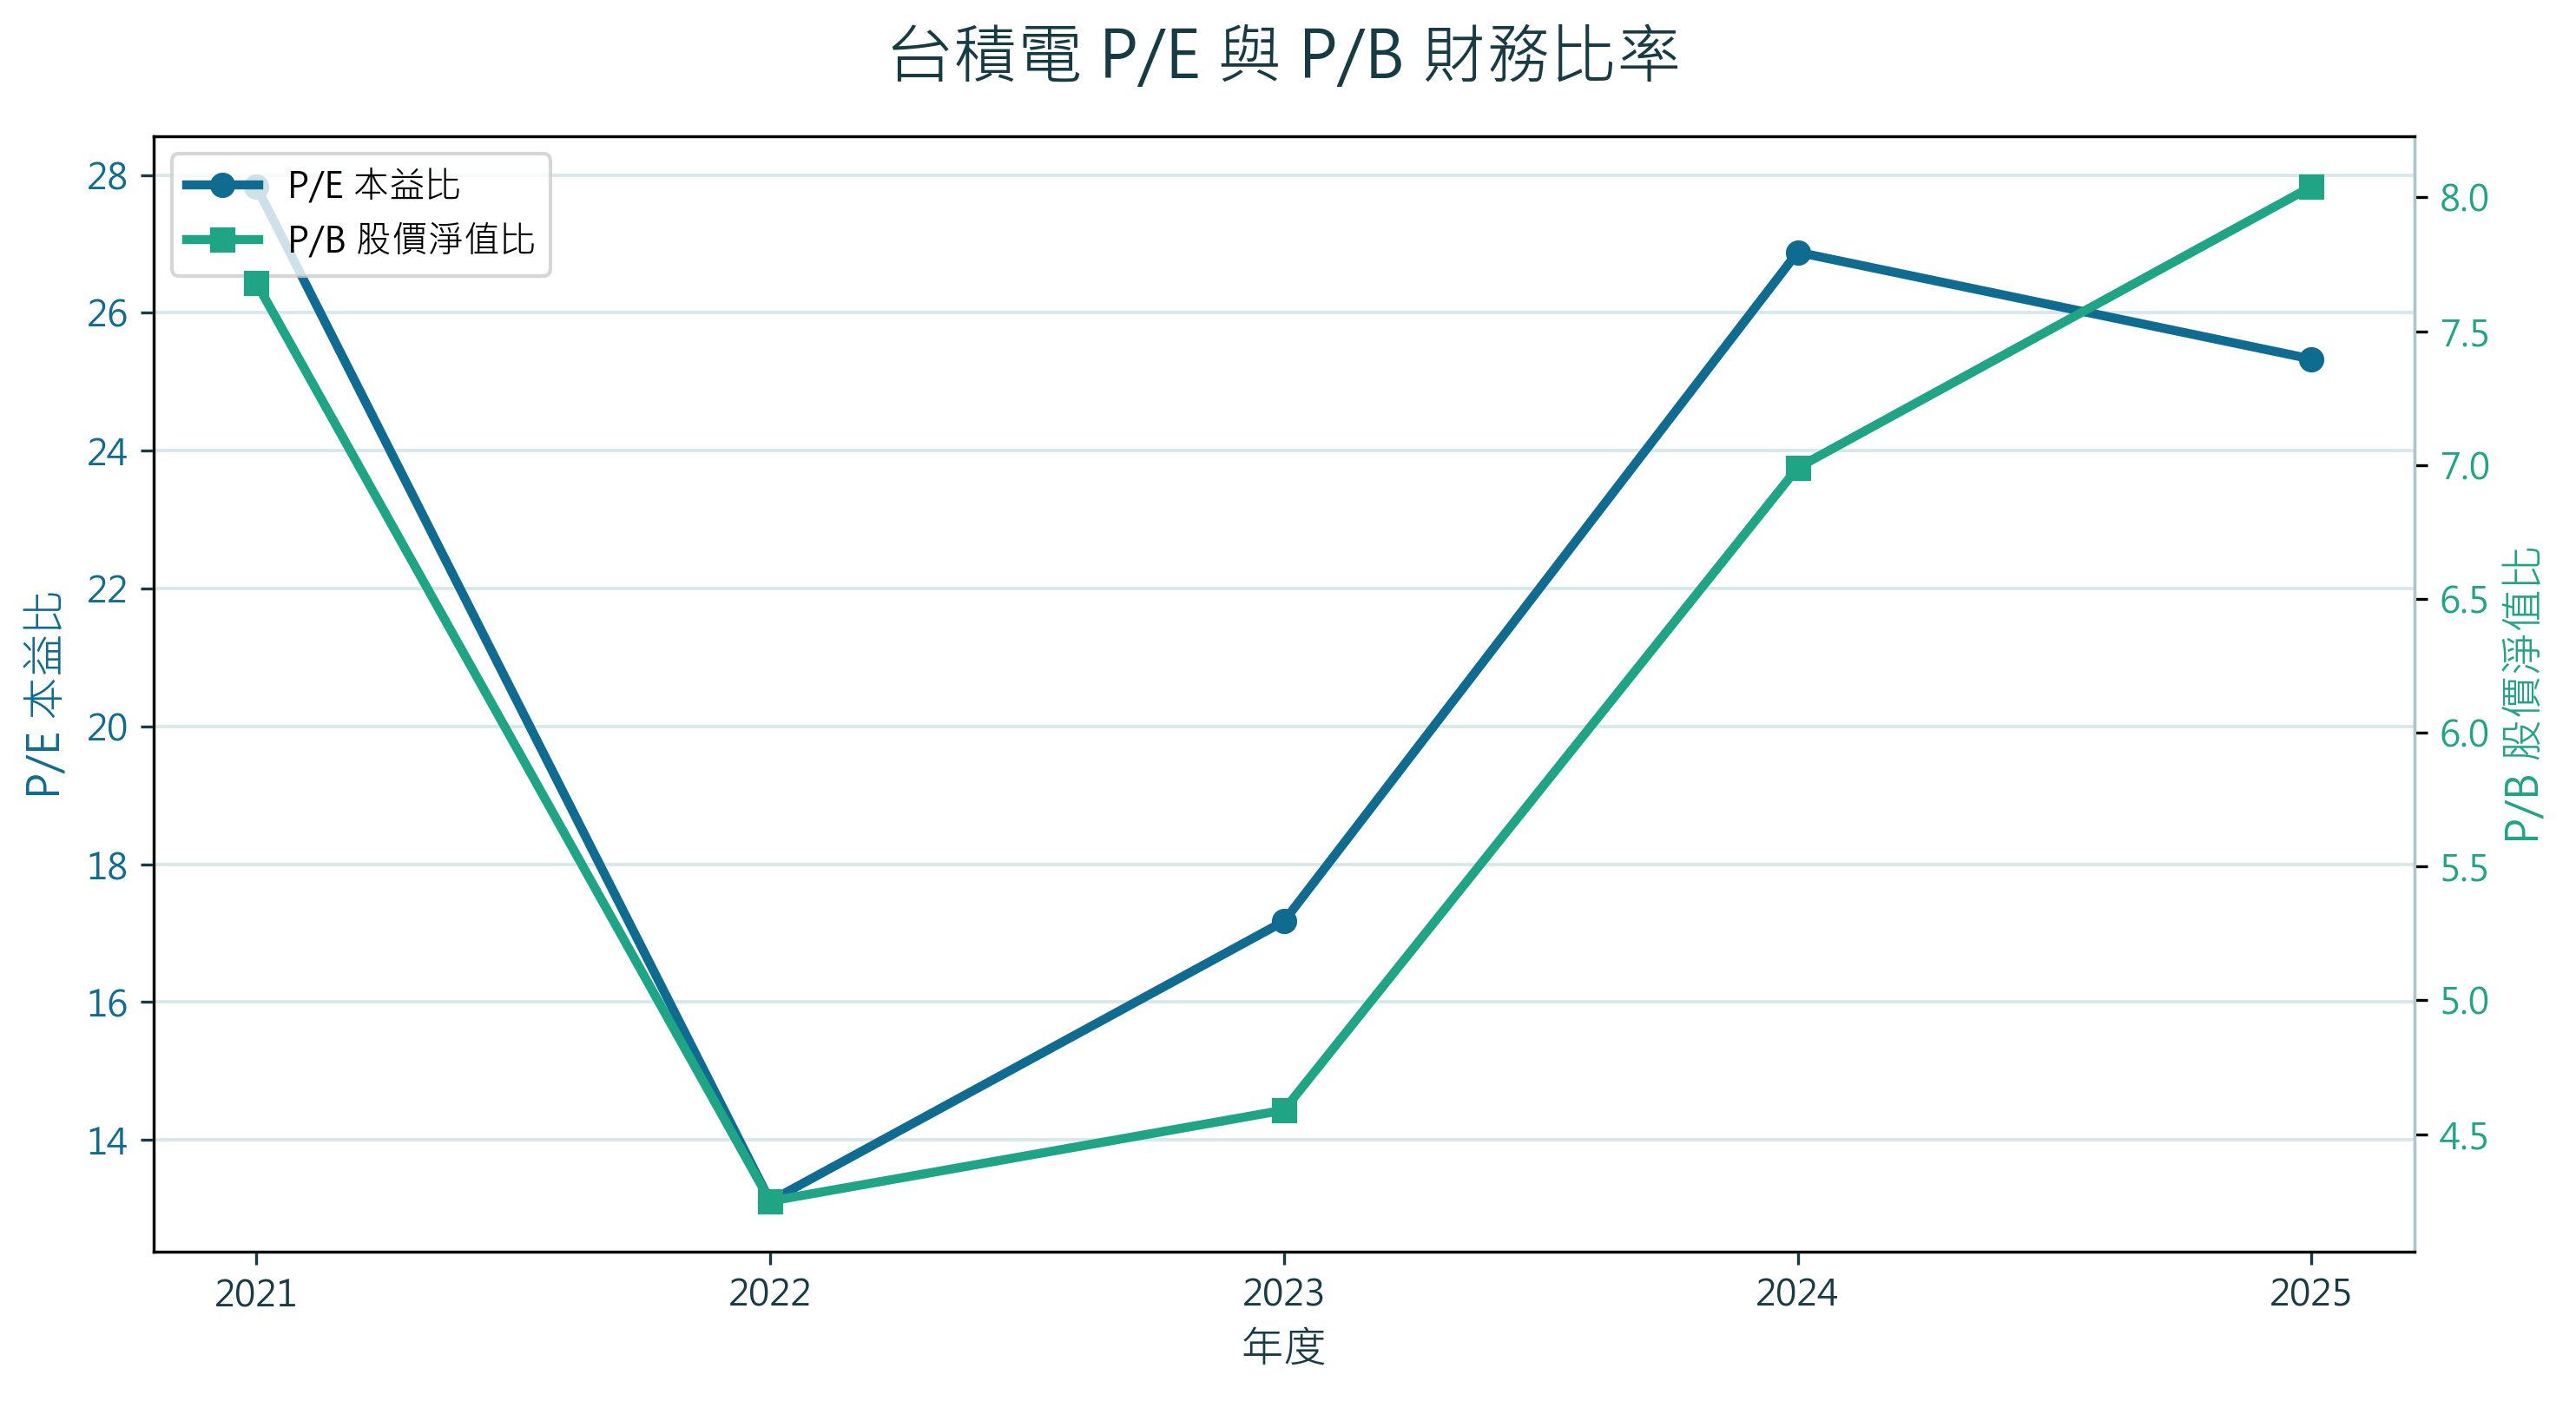
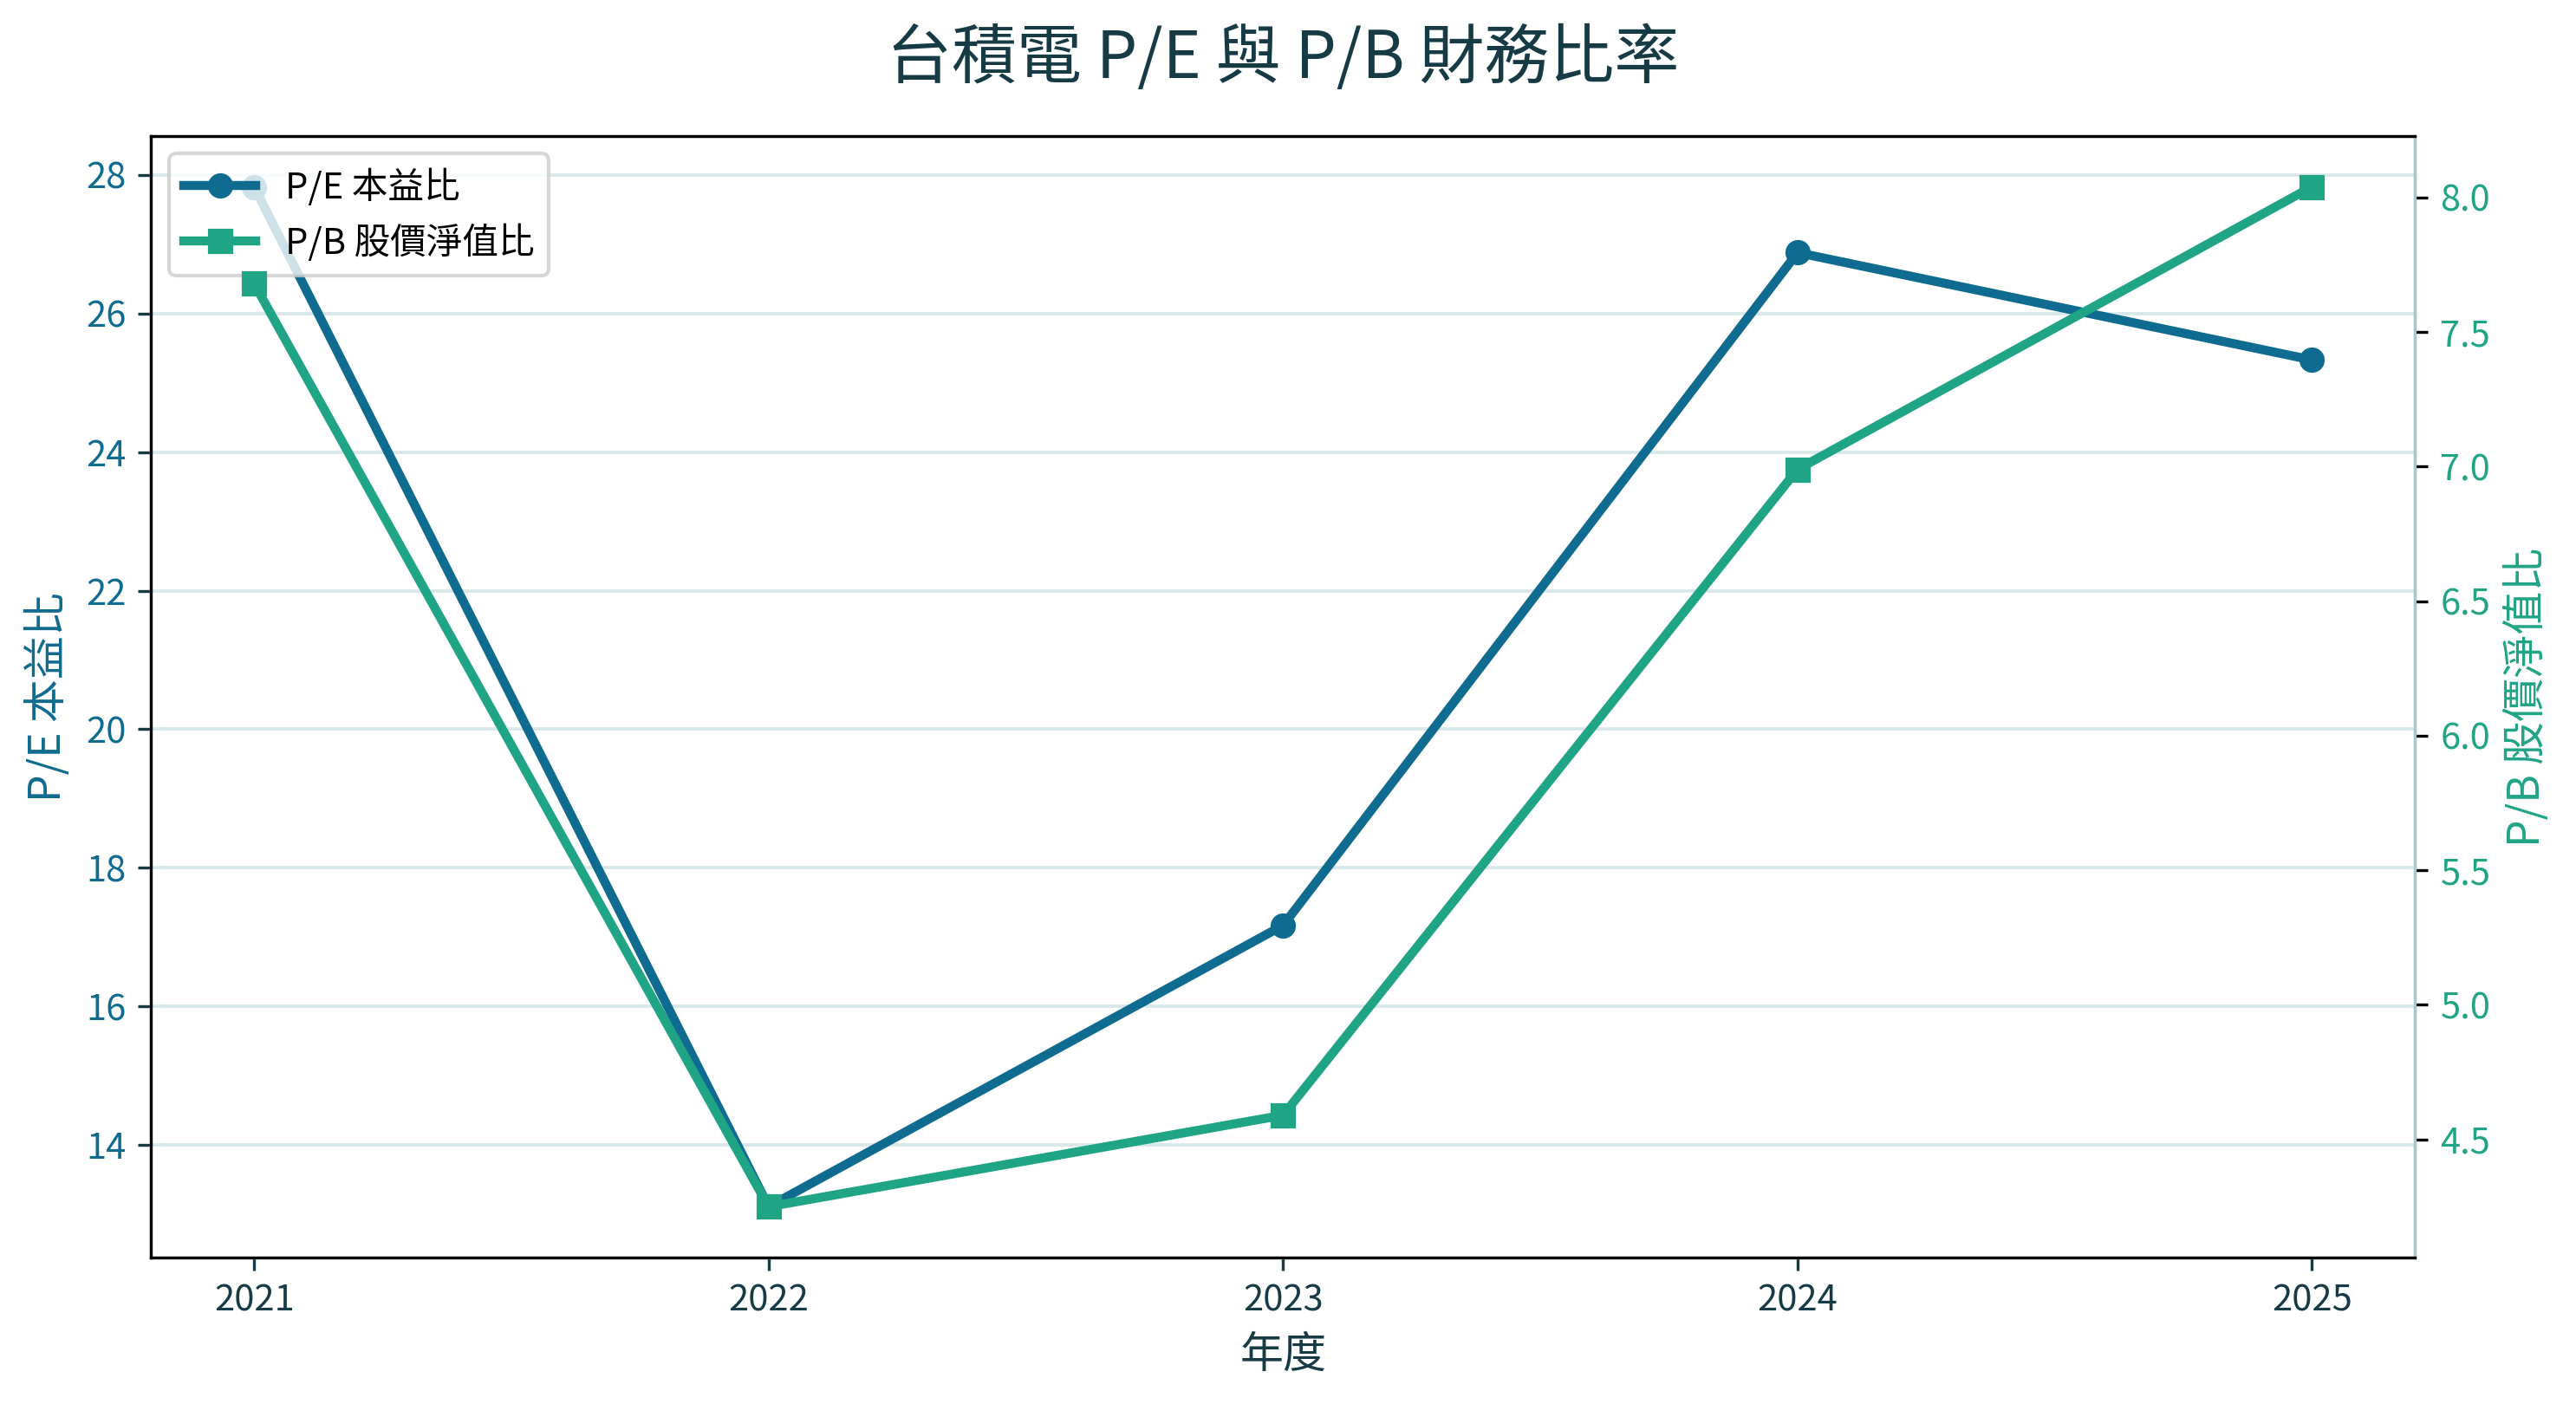
修正 Render 中文字型輸出

diff --git a/report_builder.py b/report_builder.py
@@ -16,22 +16,28 @@ from fpdf import FPDF
 
 ROOT_DIR = Path(__file__).resolve().parent
 OUTPUT_DIR = ROOT_DIR / "output"
-FONT_PATH = Path(r"C:\Windows\Fonts\msjh.ttc")
-FONT_BOLD_PATH = Path(r"C:\Windows\Fonts\msjhbd.ttc")
+FONT_CANDIDATES = [
+    ROOT_DIR / "assets" / "fonts" / "NotoSansCJKtc-Regular.otf",
+    Path(r"C:\Windows\Fonts\msjh.ttc"),
+    Path(r"C:\Windows\Fonts\msjhbd.ttc"),
+    Path("/usr/share/fonts/opentype/noto/NotoSansCJK-Regular.ttc"),
+    Path("/usr/share/fonts/opentype/noto/NotoSansCJKtc-Regular.otf"),
+]
+PDF_FONT_FAMILY = "report_font"
 
 logging.getLogger("fontTools.subset").setLevel(logging.ERROR)
 
 
 class ReportPDF(FPDF):
     def header(self) -> None:
-        self.set_font("msjh", "B", 10)
+        self.set_font(PDF_FONT_FAMILY, "B", 10)
         self.set_text_color(30, 65, 80)
         self.cell(0, 8, "多智能體投資分析系統", align="R", new_x="LMARGIN", new_y="NEXT")
         self.ln(2)
 
     def footer(self) -> None:
         self.set_y(-15)
-        self.set_font("msjh", "", 8)
+        self.set_font(PDF_FONT_FAMILY, "", 8)
         self.set_text_color(120, 120, 120)
         self.cell(0, 10, f"第 {self.page_no()} 頁", align="C")
 
@@ -50,16 +56,16 @@ def clean_text(value: Any, default: str = "尚無資料") -> str:
 def add_section_title(pdf: FPDF, title: str) -> None:
     pdf.set_fill_color(225, 245, 238)
     pdf.set_text_color(8, 80, 65)
-    pdf.set_font("msjh", "B", 15)
+    pdf.set_font(PDF_FONT_FAMILY, "B", 15)
     pdf.multi_cell(0, 10, title[:42], fill=True, new_x="LMARGIN", new_y="NEXT")
     pdf.ln(2)
 
 
 def add_key_value(pdf: FPDF, label: str, value: Any) -> None:
-    pdf.set_font("msjh", "B", 10)
+    pdf.set_font(PDF_FONT_FAMILY, "B", 10)
     pdf.set_text_color(18, 47, 64)
     pdf.cell(0, 7, label, new_x="LMARGIN", new_y="NEXT")
-    pdf.set_font("msjh", "", 10)
+    pdf.set_font(PDF_FONT_FAMILY, "", 10)
     pdf.multi_cell(0, 7, clean_text(value), new_x="LMARGIN", new_y="NEXT")
     pdf.ln(1)
 
@@ -78,16 +84,16 @@ def macro_summary(macro_df: pd.DataFrame, limit: int = 8) -> list[tuple[str, str
 def add_macro_table(pdf: FPDF, macro_df: pd.DataFrame) -> None:
     rows = macro_summary(macro_df)
     if not rows:
-        pdf.set_font("msjh", "", 10)
+        pdf.set_font(PDF_FONT_FAMILY, "", 10)
         pdf.multi_cell(0, 8, "macro_data 目前沒有可整理的資料。")
         return
 
-    pdf.set_font("msjh", "B", 9)
+    pdf.set_font(PDF_FONT_FAMILY, "B", 9)
     pdf.set_fill_color(181, 212, 244)
     pdf.cell(68, 8, "指標", border=1, fill=True)
     pdf.cell(42, 8, "日期", border=1, fill=True)
     pdf.cell(50, 8, "最新值", border=1, fill=True, new_x="LMARGIN", new_y="NEXT")
-    pdf.set_font("msjh", "", 9)
+    pdf.set_font(PDF_FONT_FAMILY, "", 9)
     for indicator, date, value in rows:
         pdf.cell(68, 8, indicator, border=1)
         pdf.cell(42, 8, date, border=1)
@@ -106,6 +112,21 @@ def add_chart_pages(pdf: FPDF, chart_paths: list[str]) -> None:
         pdf.image(str(chart), x=12, y=38, w=185)
 
 
+def resolve_font_path() -> Path:
+    for path in FONT_CANDIDATES:
+        if path.exists():
+            return path
+    raise FileNotFoundError(
+        "找不到可用中文字型，請確認 assets/fonts/NotoSansCJKtc-Regular.otf 存在。"
+    )
+
+
+def register_pdf_fonts(pdf: FPDF) -> None:
+    font_path = resolve_font_path()
+    pdf.add_font(PDF_FONT_FAMILY, "", str(font_path))
+    pdf.add_font(PDF_FONT_FAMILY, "B", str(font_path))
+
+
 def build_pdf_report(
     stock_code: str,
     macro_df: pd.DataFrame,
@@ -120,14 +141,13 @@ def build_pdf_report(
 
     pdf = ReportPDF()
     pdf.set_auto_page_break(auto=True, margin=16)
-    pdf.add_font("msjh", "", str(FONT_PATH))
-    pdf.add_font("msjh", "B", str(FONT_BOLD_PATH))
+    register_pdf_fonts(pdf)
 
     pdf.add_page()
     pdf.set_text_color(18, 47, 64)
-    pdf.set_font("msjh", "B", 22)
+    pdf.set_font(PDF_FONT_FAMILY, "B", 22)
     pdf.cell(0, 14, f"{fundamental_data.get('company', stock_code)} 投資分析報告", new_x="LMARGIN", new_y="NEXT")
-    pdf.set_font("msjh", "", 11)
+    pdf.set_font(PDF_FONT_FAMILY, "", 11)
     pdf.set_text_color(100, 119, 128)
     pdf.multi_cell(0, 8, f"股票代號：{stock_code}｜資料來源：{fundamental_data.get('data_source', 'unknown')}")
     pdf.ln(5)

diff --git a/valuation_agent/chart_builder.py b/valuation_agent/chart_builder.py
@@ -16,8 +16,16 @@ import matplotlib
 matplotlib.use("Agg")
 
 import matplotlib.pyplot as plt
+from matplotlib import font_manager
 
-plt.rcParams["font.family"] = "Microsoft JhengHei"
+FONT_PATH = PROJECT_ROOT / "assets" / "fonts" / "NotoSansCJKtc-Regular.otf"
+if FONT_PATH.exists():
+    font_manager.fontManager.addfont(str(FONT_PATH))
+    CHART_FONT_FAMILY = font_manager.FontProperties(fname=str(FONT_PATH)).get_name()
+else:
+    CHART_FONT_FAMILY = "Microsoft JhengHei"
+
+plt.rcParams["font.family"] = CHART_FONT_FAMILY
 plt.rcParams["axes.unicode_minus"] = False
 
 PRIMARY_BLUE = "#0F6B8F"